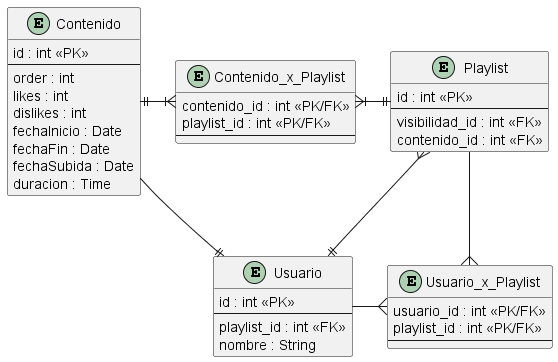
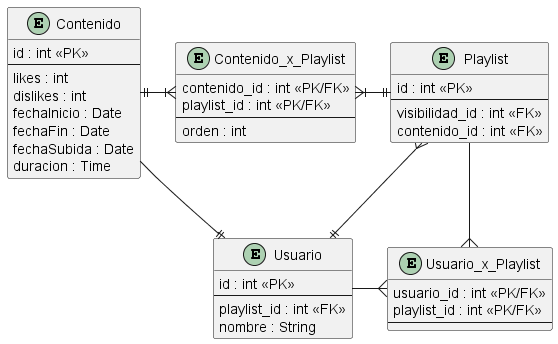
Corrige ordenamiento en diagrama

diff --git a/Segundos-parciales/2canciones/Mapeo.java b/Segundos-parciales/2canciones/Mapeo.java
@@ -46,7 +46,8 @@ public class Playlist {
   @ManyToMany
   List<Usuario> suscriptores;
   @ManyToMany
-  @OrderColumn
+  @OrderColumn(orden)
+  // Agrega columna de orden a tabla intermedia
   List<Contenido> contenidos;
 }
 
